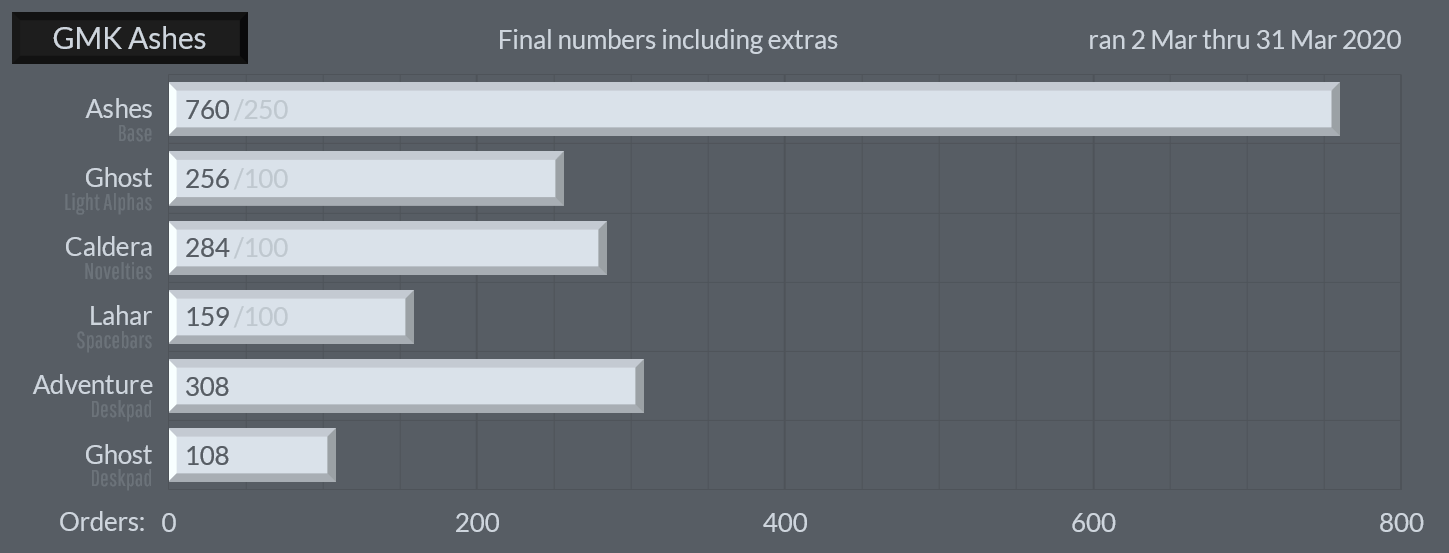
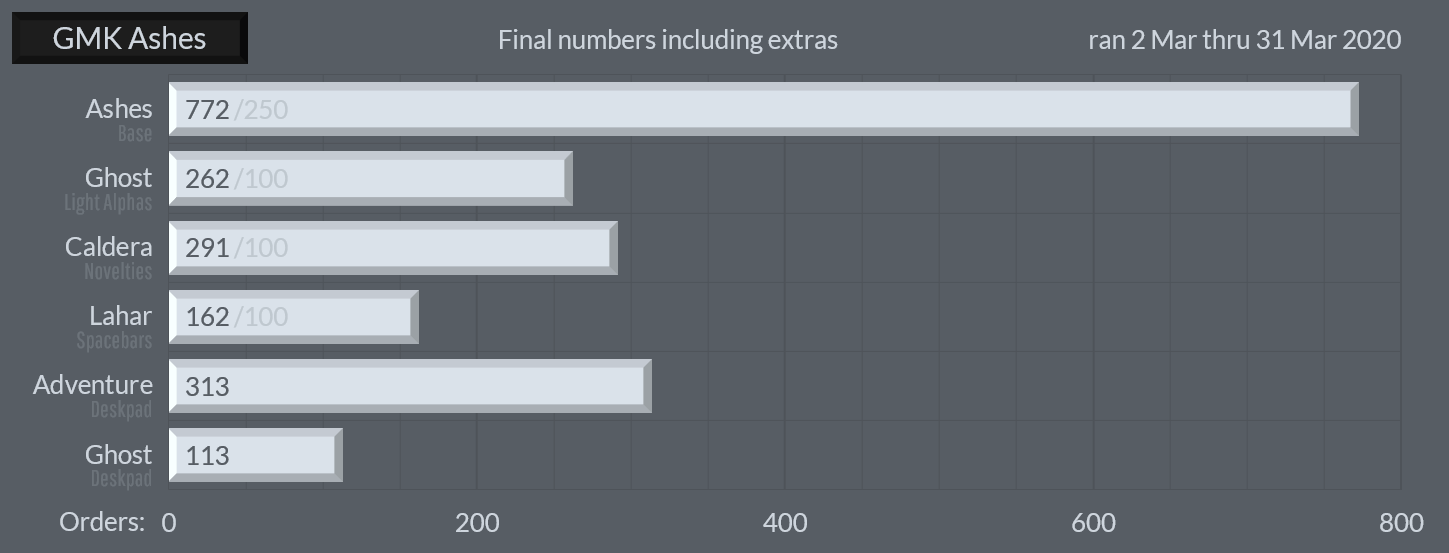
There are 6 files have been modified at 2020-04-15 06:32:33 . 	-rw-r--r-- 1 jzou ops 125024 Apr 15 06:32 assets/images/gmk-keycaps/ashes/history.png 	-rw-r--r-- 1 jzou ops 48026 Apr 15 06:32 assets/images/gmk-keycaps/ashes/order.png 	-rw-r--r-- 1 jzou ops 2189 Apr 15 06:32 docs/gmk-keycaps/Ashes.md 

diff --git a/docs/sa-keycaps/Sail.md b/docs/sa-keycaps/Sail.md
@@ -16,51 +16,54 @@ ref link: [Sail GH GB Link](https://geekhack.org/index.php?topic=104881.0)
 
 
 ## Price  
+
 NOTE: USD to CNY exchange rate is 6.99
 
 | Name          | Price(GH)    |  Price(CNY) | Quantity |
 | ------------- | ------------ |  ---------- | -------- |
-|[Alphas](#alphas)|55.00|384.45|Unknown|
-|[Modifiers](#modifiers)|100.00|699.00|Unknown|
-|[Numpad](#numpad)|45.00|314.55|Unknown|
-|[ISO](#iso)|35.00|244.65|Unknown|
-|[Ortho](#ortho)|55.00|384.45|Unknown|
-|[Ergo Blanks](#ergo-blanks)|65.00|454.35|Unknown|
-|[40s](#40s)|45.00|314.55|Unknown|
-|[Maths](#maths)|25.00|174.75|Unknown|
+|[Alphas](#alphas)|55.00|384.45|243|
+|[Modifiers](#modifiers)|100.00|699.00|188|
+|[Numpad](#numpad)|45.00|314.55|73|
+|[ISO](#iso)|35.00|244.65|50|
+|[Ortho](#ortho)|55.00|384.45|64|
+|[Ergo Blanks](#ergo-blanks)|65.00|454.35|50|
+|[40s](#40s)|45.00|314.55|52|
+|[Maths](#maths)|25.00|174.75|108|
 
+<img src="{{ 'assets/images/sa-keycaps/sail/history.png' | relative_url }}" alt="history" class="image featured">
+<img src="{{ 'assets/images/sa-keycaps/sail/order.png' | relative_url }}" alt="order" class="image featured">
 
 ## Kits  
 ### Alphas  
-**Price(GH):** 55.00    **Price(CNY):** 384.45    **Quantity:** Unknown  
+**Price(GH):** 55.00    **Price(CNY):** 384.45    **Quantity:** 243  
 <img src="{{ 'assets/images/sa-keycaps/sail/kits_pics/alphas.jpg' | relative_url }}" alt="alphas" class="image featured">
 
 ### Modifiers  
-**Price(GH):** 100.00    **Price(CNY):** 699.00    **Quantity:** Unknown  
+**Price(GH):** 100.00    **Price(CNY):** 699.00    **Quantity:** 188  
 <img src="{{ 'assets/images/sa-keycaps/sail/kits_pics/modifiers.jpg' | relative_url }}" alt="modifiers" class="image featured">
 
 ### Numpad  
-**Price(GH):** 45.00    **Price(CNY):** 314.55    **Quantity:** Unknown  
+**Price(GH):** 45.00    **Price(CNY):** 314.55    **Quantity:** 73  
 <img src="{{ 'assets/images/sa-keycaps/sail/kits_pics/numpad.jpg' | relative_url }}" alt="numpad" class="image featured">
 
 ### ISO  
-**Price(GH):** 35.00    **Price(CNY):** 244.65    **Quantity:** Unknown  
+**Price(GH):** 35.00    **Price(CNY):** 244.65    **Quantity:** 50  
 <img src="{{ 'assets/images/sa-keycaps/sail/kits_pics/iso.jpg' | relative_url }}" alt="iso" class="image featured">
 
 ### Ortho  
-**Price(GH):** 55.00    **Price(CNY):** 384.45    **Quantity:** Unknown  
+**Price(GH):** 55.00    **Price(CNY):** 384.45    **Quantity:** 64  
 <img src="{{ 'assets/images/sa-keycaps/sail/kits_pics/ortho.jpg' | relative_url }}" alt="ortho" class="image featured">
 
 ### Ergo Blanks  
-**Price(GH):** 65.00    **Price(CNY):** 454.35    **Quantity:** Unknown  
+**Price(GH):** 65.00    **Price(CNY):** 454.35    **Quantity:** 50  
 <img src="{{ 'assets/images/sa-keycaps/sail/kits_pics/ergo-blanks.jpg' | relative_url }}" alt="ergo-blanks" class="image featured">
 
 ### 40s  
-**Price(GH):** 45.00    **Price(CNY):** 314.55    **Quantity:** Unknown  
+**Price(GH):** 45.00    **Price(CNY):** 314.55    **Quantity:** 52  
 <img src="{{ 'assets/images/sa-keycaps/sail/kits_pics/40s.jpg' | relative_url }}" alt="40s" class="image featured">
 
 ### Maths  
-**Price(GH):** 25.00    **Price(CNY):** 174.75    **Quantity:** Unknown  
+**Price(GH):** 25.00    **Price(CNY):** 174.75    **Quantity:** 108  
 <img src="{{ 'assets/images/sa-keycaps/sail/kits_pics/maths.jpg' | relative_url }}" alt="maths" class="image featured">
 
 
@@ -81,7 +84,7 @@ NOTE: USD to CNY exchange rate is 6.99
   </tr>
   <tr>
     <th>Pantone PQ-7717C</th>
-    <th></th>
+    <th><img src="{{ 'assets/images/sa-keycaps/SP_ColorCodes/abs/SP_Abs_ColorCodes_Pantone PQ-7717C.png' | relative_url }}" alt="Color_Pantone PQ-7717C" height="75" width="170"></th>
   </tr>
 </table>
 

diff --git a/docs/gmk-keycaps/Ashes.md b/docs/gmk-keycaps/Ashes.md
@@ -21,29 +21,29 @@ NOTE: USD to CNY exchange rate is 7.00
 
 | Name          | Price(GH)    |  Price(CNY) | Quantity |
 | ------------- | ------------ |  ---------- | -------- |
-|[Ashes](#ashes)|130.00|910.00|760|
-|[Ghost](#ghost)|66.00|462.00|256|
-|[Caldera](#caldera)|38.00|266.00|284|
-|[Lahar](#lahar)|32.00|224.00|159|
+|[Ashes](#ashes)|130.00|910.00|772|
+|[Ghost](#ghost)|66.00|462.00|262|
+|[Caldera](#caldera)|38.00|266.00|291|
+|[Lahar](#lahar)|32.00|224.00|162|
 
 <img src="{{ 'assets/images/gmk-keycaps/ashes/history.png' | relative_url }}" alt="history" class="image featured">
 <img src="{{ 'assets/images/gmk-keycaps/ashes/order.png' | relative_url }}" alt="order" class="image featured">
 
 ## Kits  
 ### Ashes  
-**Price(GH):** 130.00    **Price(CNY):** 910.00    **Quantity:** 760  
+**Price(GH):** 130.00    **Price(CNY):** 910.00    **Quantity:** 772  
 <img src="{{ 'assets/images/gmk-keycaps/ashes/kits_pics/ashes.jpg' | relative_url }}" alt="ashes" class="image featured">
 
 ### Ghost  
-**Price(GH):** 66.00    **Price(CNY):** 462.00    **Quantity:** 256  
+**Price(GH):** 66.00    **Price(CNY):** 462.00    **Quantity:** 262  
 <img src="{{ 'assets/images/gmk-keycaps/ashes/kits_pics/ghost.jpg' | relative_url }}" alt="ghost" class="image featured">
 
 ### Caldera  
-**Price(GH):** 38.00    **Price(CNY):** 266.00    **Quantity:** 284  
+**Price(GH):** 38.00    **Price(CNY):** 266.00    **Quantity:** 291  
 <img src="{{ 'assets/images/gmk-keycaps/ashes/kits_pics/caldera.jpg' | relative_url }}" alt="caldera" class="image featured">
 
 ### Lahar  
-**Price(GH):** 32.00    **Price(CNY):** 224.00    **Quantity:** 159  
+**Price(GH):** 32.00    **Price(CNY):** 224.00    **Quantity:** 162  
 <img src="{{ 'assets/images/gmk-keycaps/ashes/kits_pics/lahar.jpg' | relative_url }}" alt="lahar" class="image featured">
 
 
